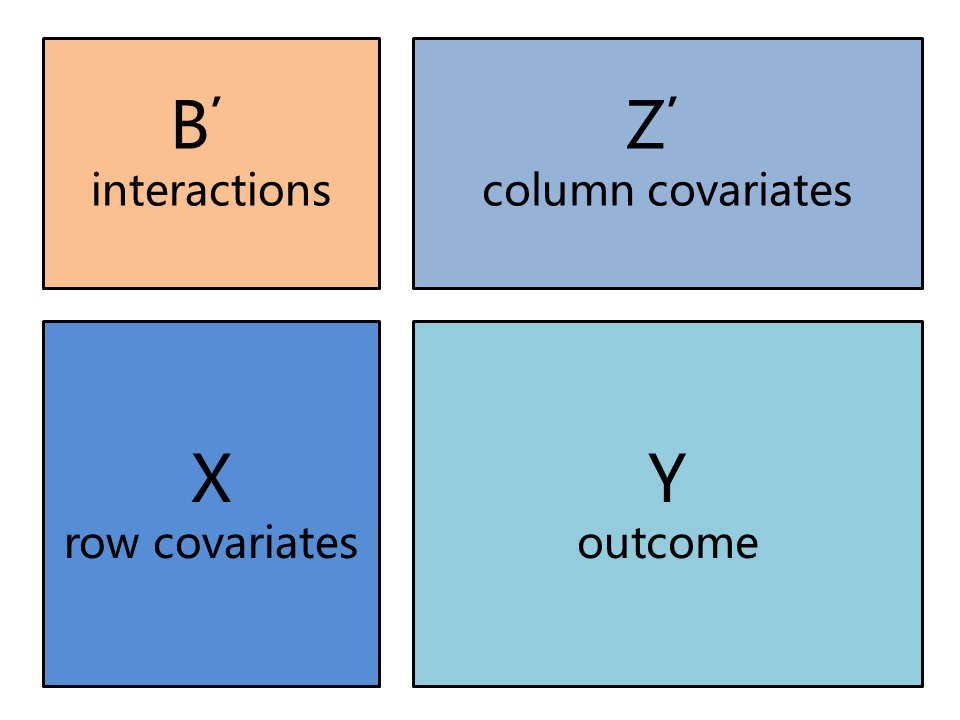
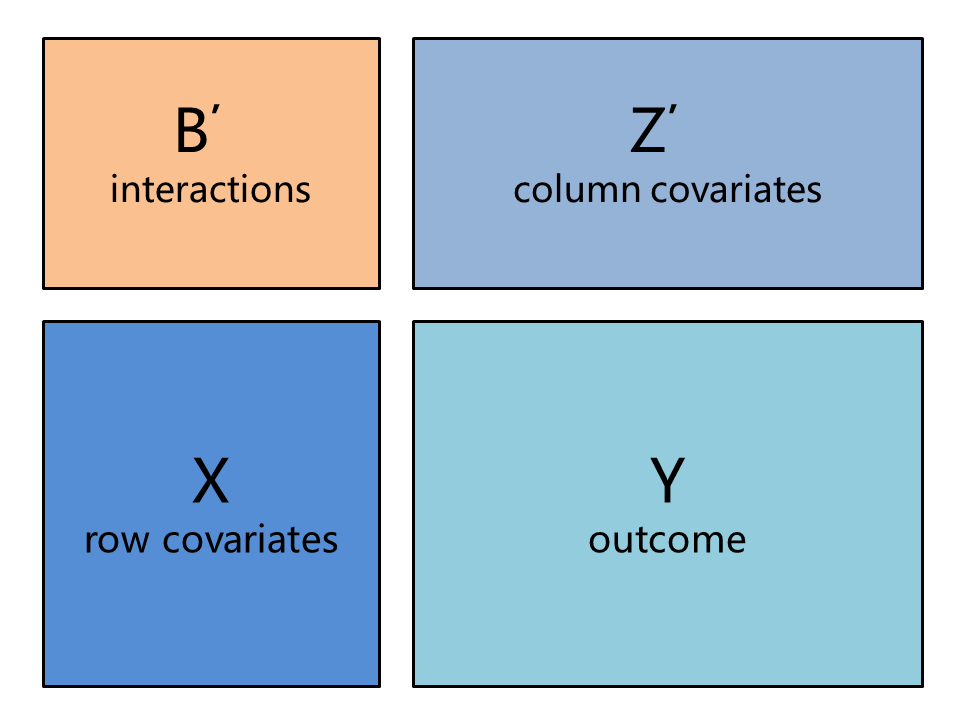
Try list again and resize image

diff --git a/assets/css/style.scss b/assets/css/style.scss
@@ -74,6 +74,3 @@ a.svg:after {
 object {
   width: 100%;
 }
-
-// Get rid of space betwen regular text and list
-ul { margin: 0; }

diff --git a/mlm/index.md b/mlm/index.md
@@ -8,14 +8,14 @@ title: Matrix Linear Models
 *This page is currently under construction.*
 
 Matrix linear models are a flexible and computationally efficient framework for detecting associations in structured high-throughput data. Examples of high-throughput data include: 
-<ul>
+<ul style="margin:0;">
 <li>Measuring gene transcription on a genome-wide scale using microarrays.</li>
 <li>Screening a genetic mutant library under different growth conditions to analyze the effects of gene-condition interactions on colony size.</li>
 <li>Subjecting various cancer cells to a range of treatment drugs in order to identify genetic features targeted by particular therapies.</li>
 <li>Using mass spectrometry to detect levels of chemicals human tissues.</li>
 </ul>
 
-<center><img src="{{ site.url }}/media/mlm_diagram.png" width="320" height="240" title="Visualization of matrix linear models."/></center>
+<center><img src="{{ site.url }}/media/mlm_diagram.png" width="384" height="288" title="Visualization of matrix linear models."/></center>
 
 Under the supervision of [&#346;aunak Sen](http://senresearch.org), I developed closed-form least squares estimates applied to high-throughput <a href="#genetic">genetic screening data</a> as well as <a href="#sparse">sparse algorithms</a>. Our estimation methods are fast because we leverage matrix properties and the structure of the data. These methods are implemented in open-source code using the high-level programming language [Julia](https://julialang.org/), which combines ease of prototyping with computational speed. 
 
